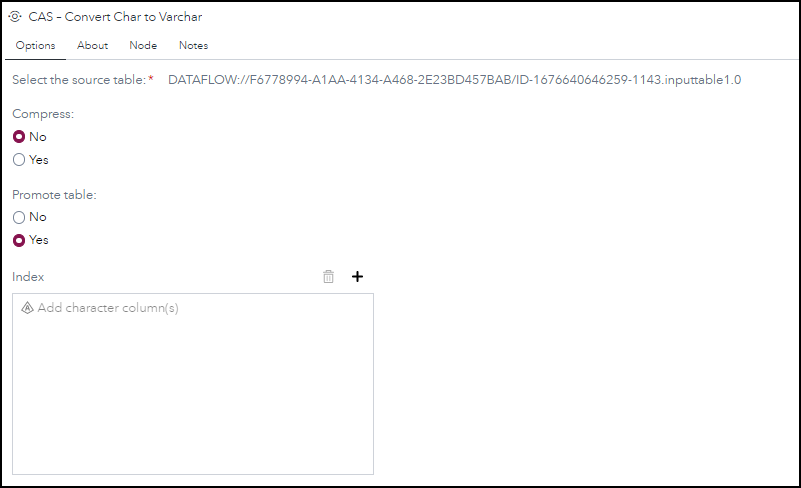
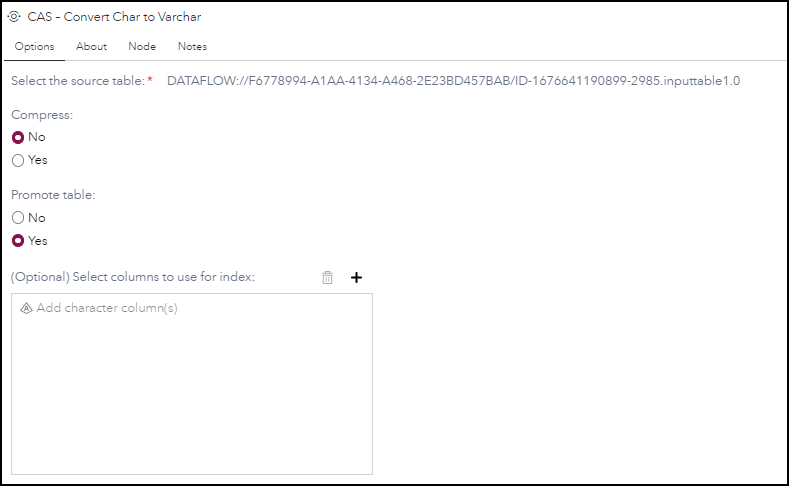
Updated README and Screenshot
Updated README and Screenshot

diff --git a/CAS – Convert Char to Varchar/README.md b/CAS – Convert Char to Varchar/README.md
@@ -23,7 +23,7 @@ Compress - No to not compress the table, Yes otherwise
 
 Promote  - No to not promote the table, Yes otherwise
 
-Index    - Provide the column(s) to create index (optional)
+(Optional) Select columns to use for index - Provide the column(s) to create index
 
 
 * ### About tab ###
